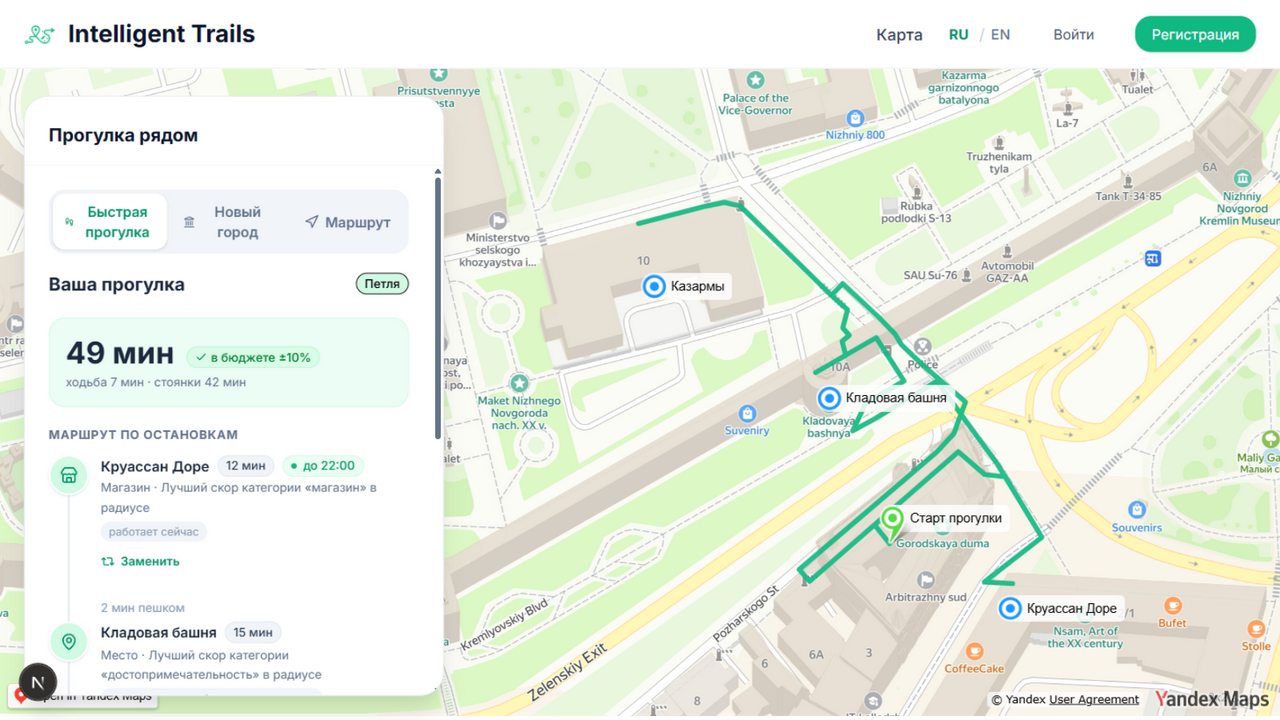
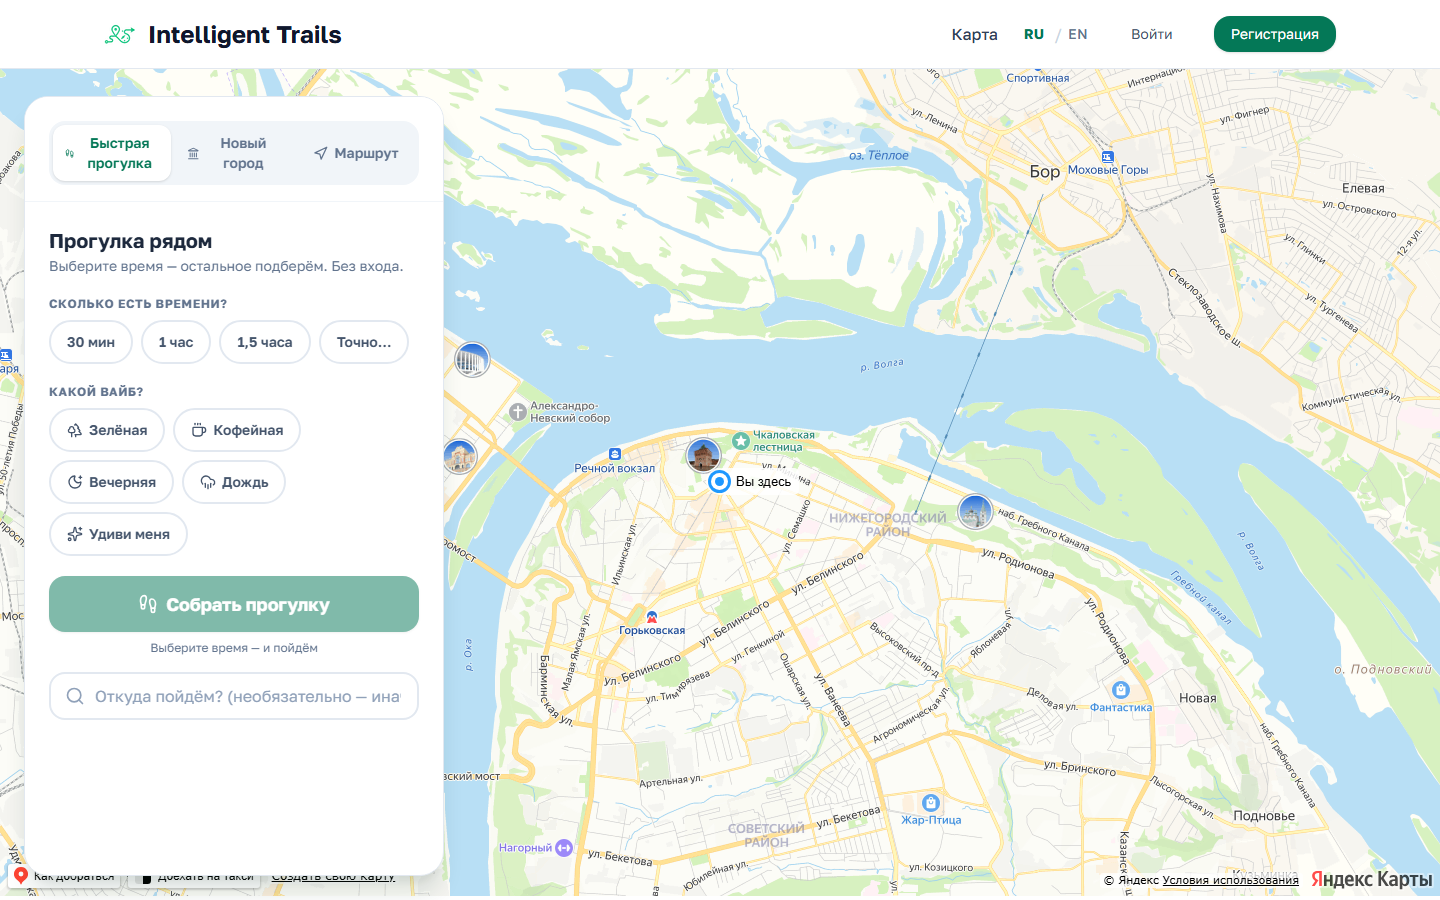
checkpoint(design-review): правки параллельной дизайн-сессии — вайб необязателен (= «Удиви меня»), мелкая полировка карточек/чипов/лендинга, hero-панель обновлена
Чекпоинт перед волной human design: файлы из чужой живой сессии
(design-review/) git-ignored, source-правки зафиксированы как есть.

diff --git a/src/components/features/quick-walk/QuickWalkContent.tsx b/src/components/features/quick-walk/QuickWalkContent.tsx
@@ -10,6 +10,7 @@ import { CloudRain, Crosshair, MapPin, Save, ThermometerSun } from "lucide-react
 import {
   DEFAULT_CUSTOM_MINUTES,
   INITIAL_WALK_STATE,
+  SURPRISE_VIBE,
   estimateBuildRange,
   normalizeCustomMinutes,
   walkMachine,
@@ -170,8 +171,10 @@ export function QuickWalkContent({ mode = "quick" }: { mode?: "quick" | "sightse
 
   const handleStart = useCallback(() => {
     // Обзорный режим (вход №2): архетип фиксирован, юзер выбирает город и время.
-    const vibeValue: QuickVibe | null = mode === "sightseeing" ? "sightseeing" : vibe;
-    if (selectedMinutes == null || vibeValue == null) return;
+    // Вайб необязателен (ux-main-screen §6.2): CTA активна от одного времени,
+    // поэтому пустой вайб — это «Удиви меня» (микс без ядра), а не молчаливый но-оп.
+    const vibeValue: QuickVibe = mode === "sightseeing" ? "sightseeing" : (vibe ?? SURPRISE_VIBE);
+    if (selectedMinutes == null) return;
     const minutes = isCustomActive
       ? normalizeCustomMinutes(customMinutes ?? DEFAULT_CUSTOM_MINUTES)
       : selectedMinutes;

diff --git a/src/components/landing/HeroSection.tsx b/src/components/landing/HeroSection.tsx
@@ -18,6 +18,7 @@ export function HeroSection() {
       {/* Мотив продукта: пунктирная петля, «набросанная» по бумаге (как петля на карте при сборке) */}
       <svg
         aria-hidden
+        data-full-bleed
         className="pointer-events-none absolute -right-20 top-14 hidden w-[520px] text-brand-300 lg:block"
         viewBox="0 0 520 420"
         fill="none"
@@ -67,8 +68,8 @@ export function HeroSection() {
             <Image
               src="/hero/walk-panel.png"
               alt={t('visualAlt')}
-              width={1280}
-              height={719}
+              width={1440}
+              height={900}
               priority
               sizes="(max-width: 1024px) 100vw, 560px"
               className="h-auto w-full rounded-2xl object-cover"

diff --git a/src/components/walk/WalkSummaryCard.tsx b/src/components/walk/WalkSummaryCard.tsx
@@ -92,7 +92,7 @@ export function WalkSummaryCard({
               Итог — единственная дисплейная цифра экрана (ux-main-screen §5). */}
           <div className="rounded-2xl border border-brand-100 bg-brand-50 p-4">
             <div className="flex flex-wrap items-baseline gap-x-3 gap-y-1">
-              <span className="font-display text-3xl font-bold text-pine-800">
+              <span className="font-display text-3xl font-bold text-pine-800 tabular-nums">
                 {plan.totals.totalMin}
                 <span className="ml-1.5 font-sans text-lg font-bold text-slate-600">{t("minutesUnit")}</span>
               </span>

diff --git a/src/components/landing/TutorialSection.tsx b/src/components/landing/TutorialSection.tsx
@@ -82,7 +82,7 @@ export function TutorialSection() {
     <section id="tutorial" className="py-20 bg-gradient-to-b from-slate-50 to-white relative overflow-hidden">
       {/* SVG путь через цифры: один брендовый зелёный, пунктир как на карте */}
       {pathD && (
-        <svg className="absolute inset-0 w-full h-full pointer-events-none" style={{ zIndex: 0 }}>
+        <svg className="absolute inset-0 w-full h-full pointer-events-none" style={{ zIndex: 0 }} data-full-bleed>
           <path
             d={pathD}
             stroke="#10b981"

diff --git a/src/components/walk/StopRow.tsx b/src/components/walk/StopRow.tsx
@@ -186,7 +186,7 @@ export interface WalkLegRowProps {
 export function WalkLegRow({ walkMin, label, className }: WalkLegRowProps) {
   const t = useTranslations("WalkUI");
   return (
-    <div className={cn("flex items-center gap-1.5 py-1.5 pl-[52px] text-xs text-slate-500", className)}>
+    <div className={cn("flex items-center gap-1.5 py-1.5 pl-[52px] text-xs text-slate-500 tabular-nums", className)}>
       <Footprints size={12} aria-hidden className="shrink-0" />
       <span>{label ?? t("legWalk", { minutes: walkMin })}</span>
     </div>

diff --git a/src/components/ui/Badge.tsx b/src/components/ui/Badge.tsx
@@ -26,7 +26,7 @@ export function Badge({ children, variant = "default", size = "sm", className }:
   return (
     <span
       className={cn(
-        "inline-flex items-center gap-1 font-medium rounded-full border transition-colors",
+        "inline-flex items-center gap-1 font-medium rounded-full border transition-colors tabular-nums",
         badgeVariants[variant],
         badgeSizes[size],
         className

diff --git a/src/components/walk/QuickStartPanel.tsx b/src/components/walk/QuickStartPanel.tsx
@@ -177,7 +177,7 @@ export function QuickStartPanel({
               >
                 <Minus size={16} />
               </button>
-              <span className="w-16 text-center text-sm font-bold text-slate-800">
+              <span className="w-16 text-center text-sm font-bold text-slate-800 tabular-nums">
                 {effectiveCustom} {t("minutesUnit")}
               </span>
               <button

diff --git a/src/components/landing/CTASection.tsx b/src/components/landing/CTASection.tsx
@@ -13,6 +13,7 @@ export function CTASection() {
       {/* Та же пунктирная петля, что и в hero — теперь по тёмной «полярной» бумаге */}
       <svg
         aria-hidden
+        data-full-bleed
         className="pointer-events-none absolute -left-16 -bottom-16 w-[420px] text-brand-500 opacity-30"
         viewBox="0 0 420 360"
         fill="none"
